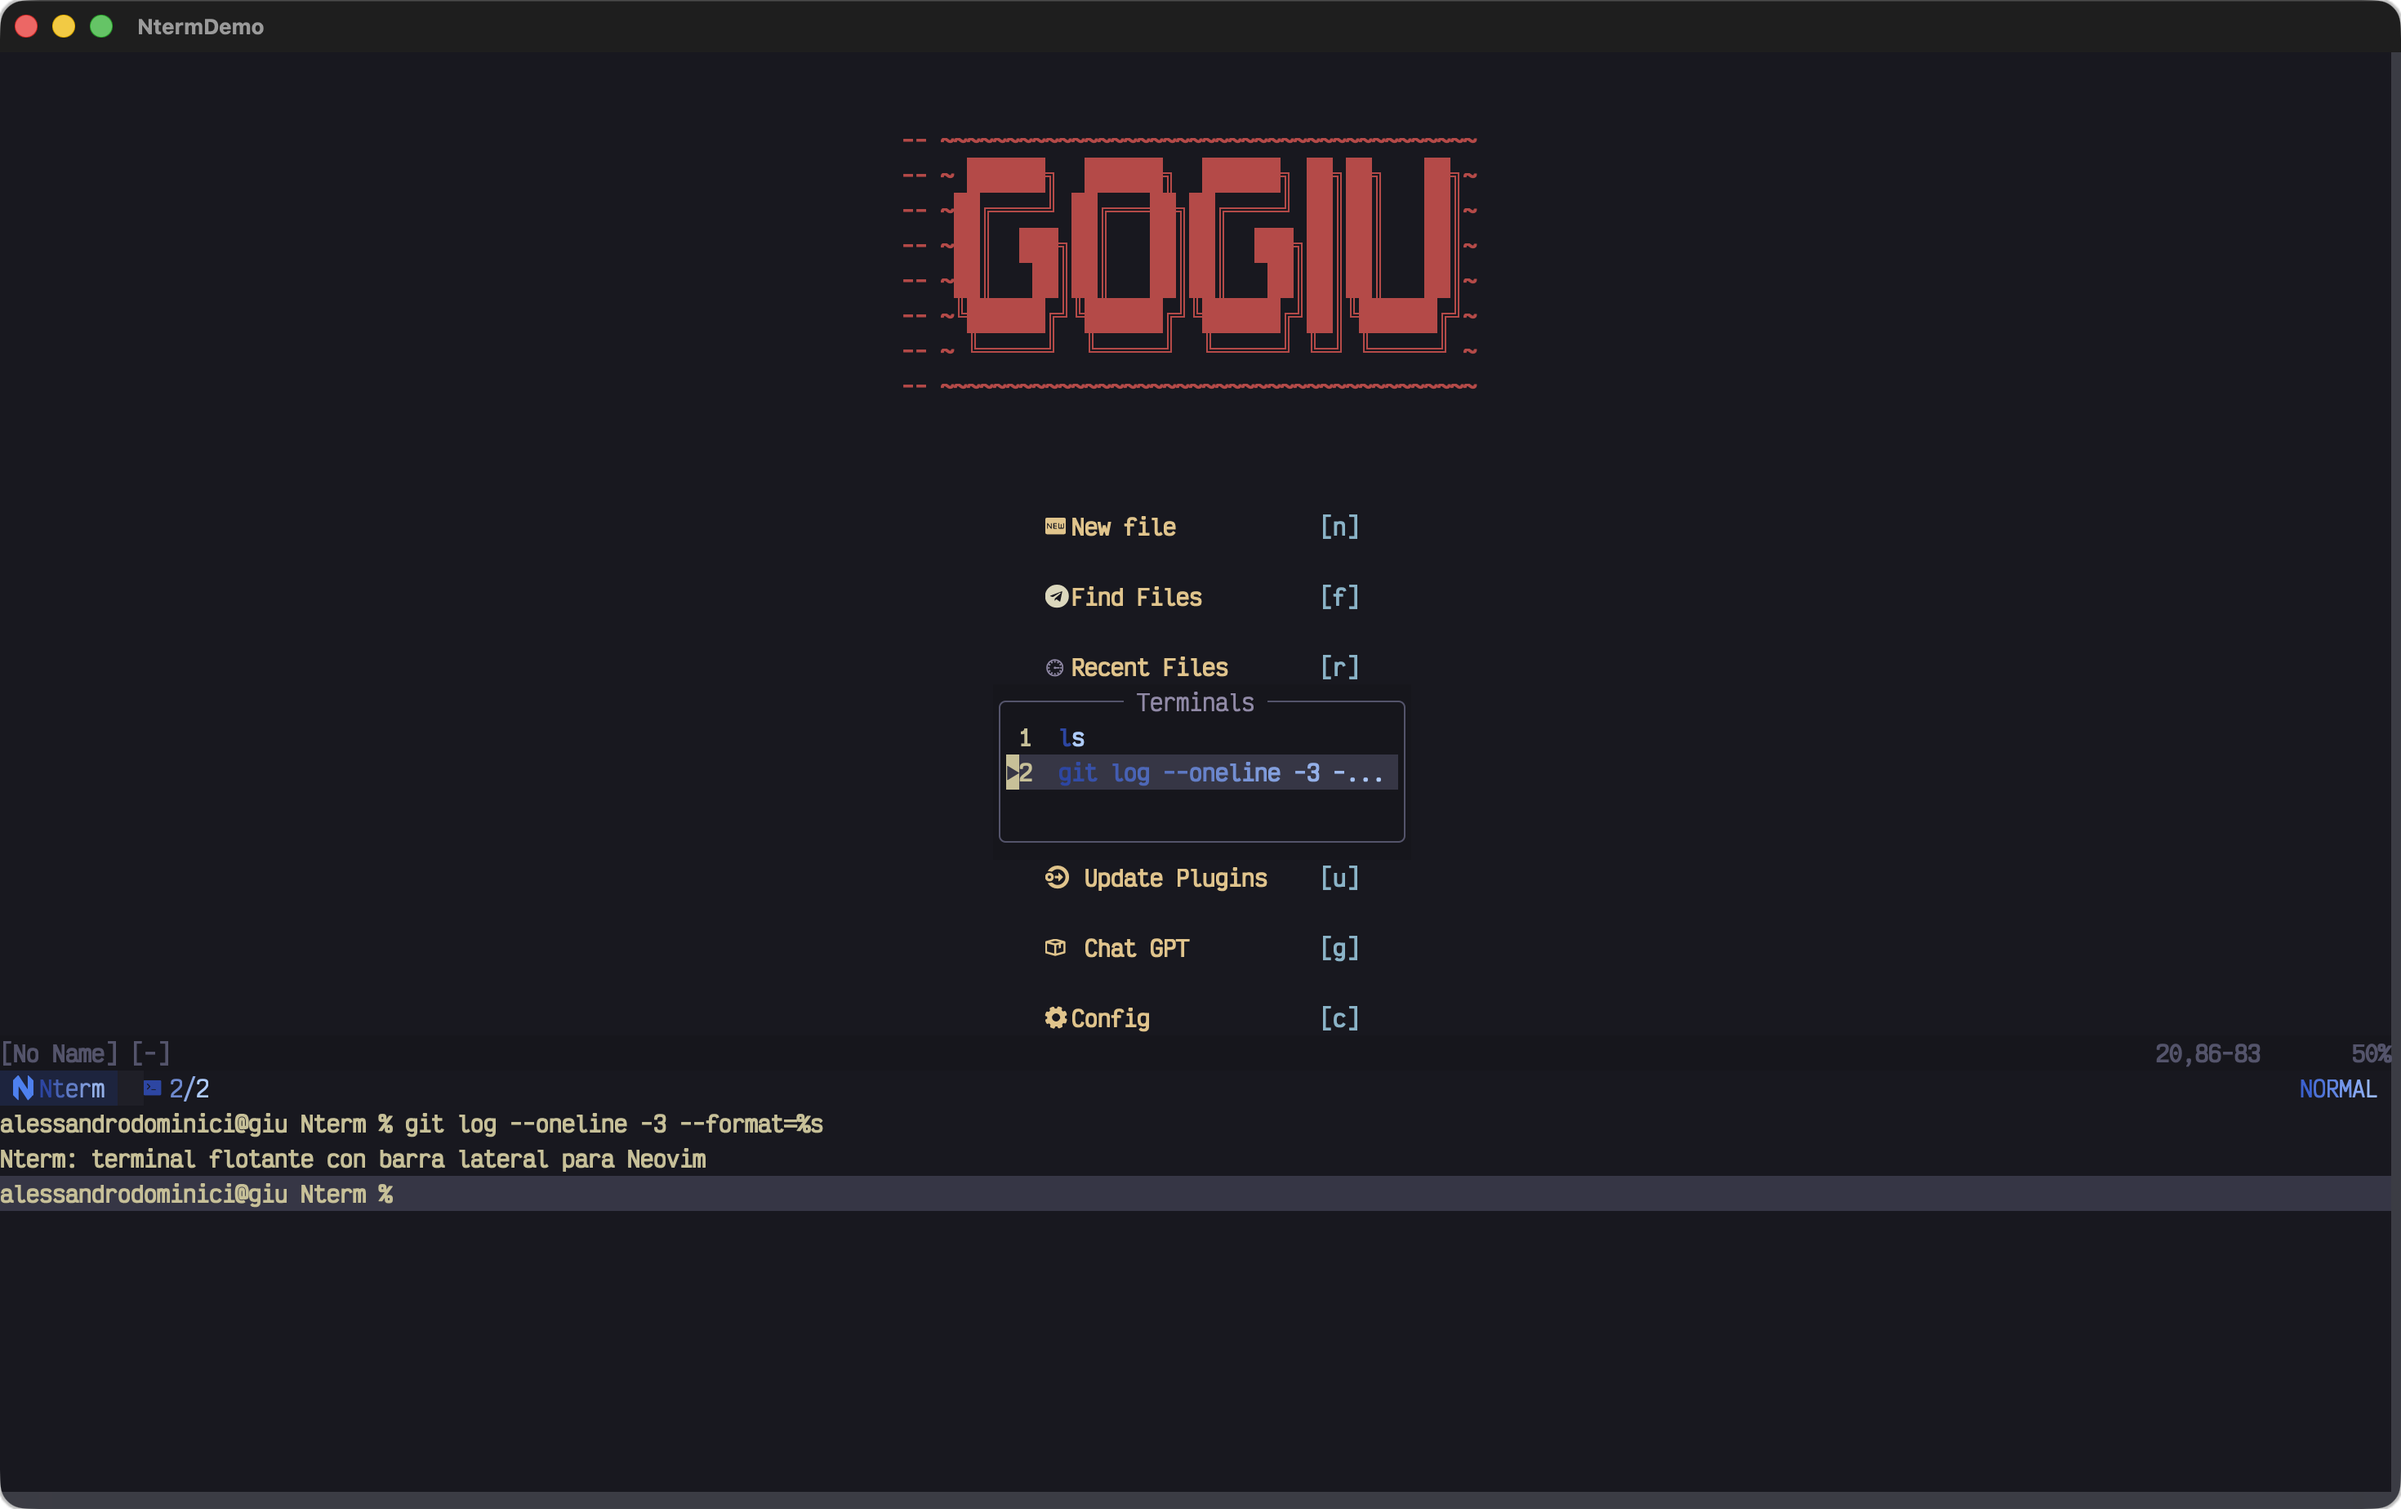
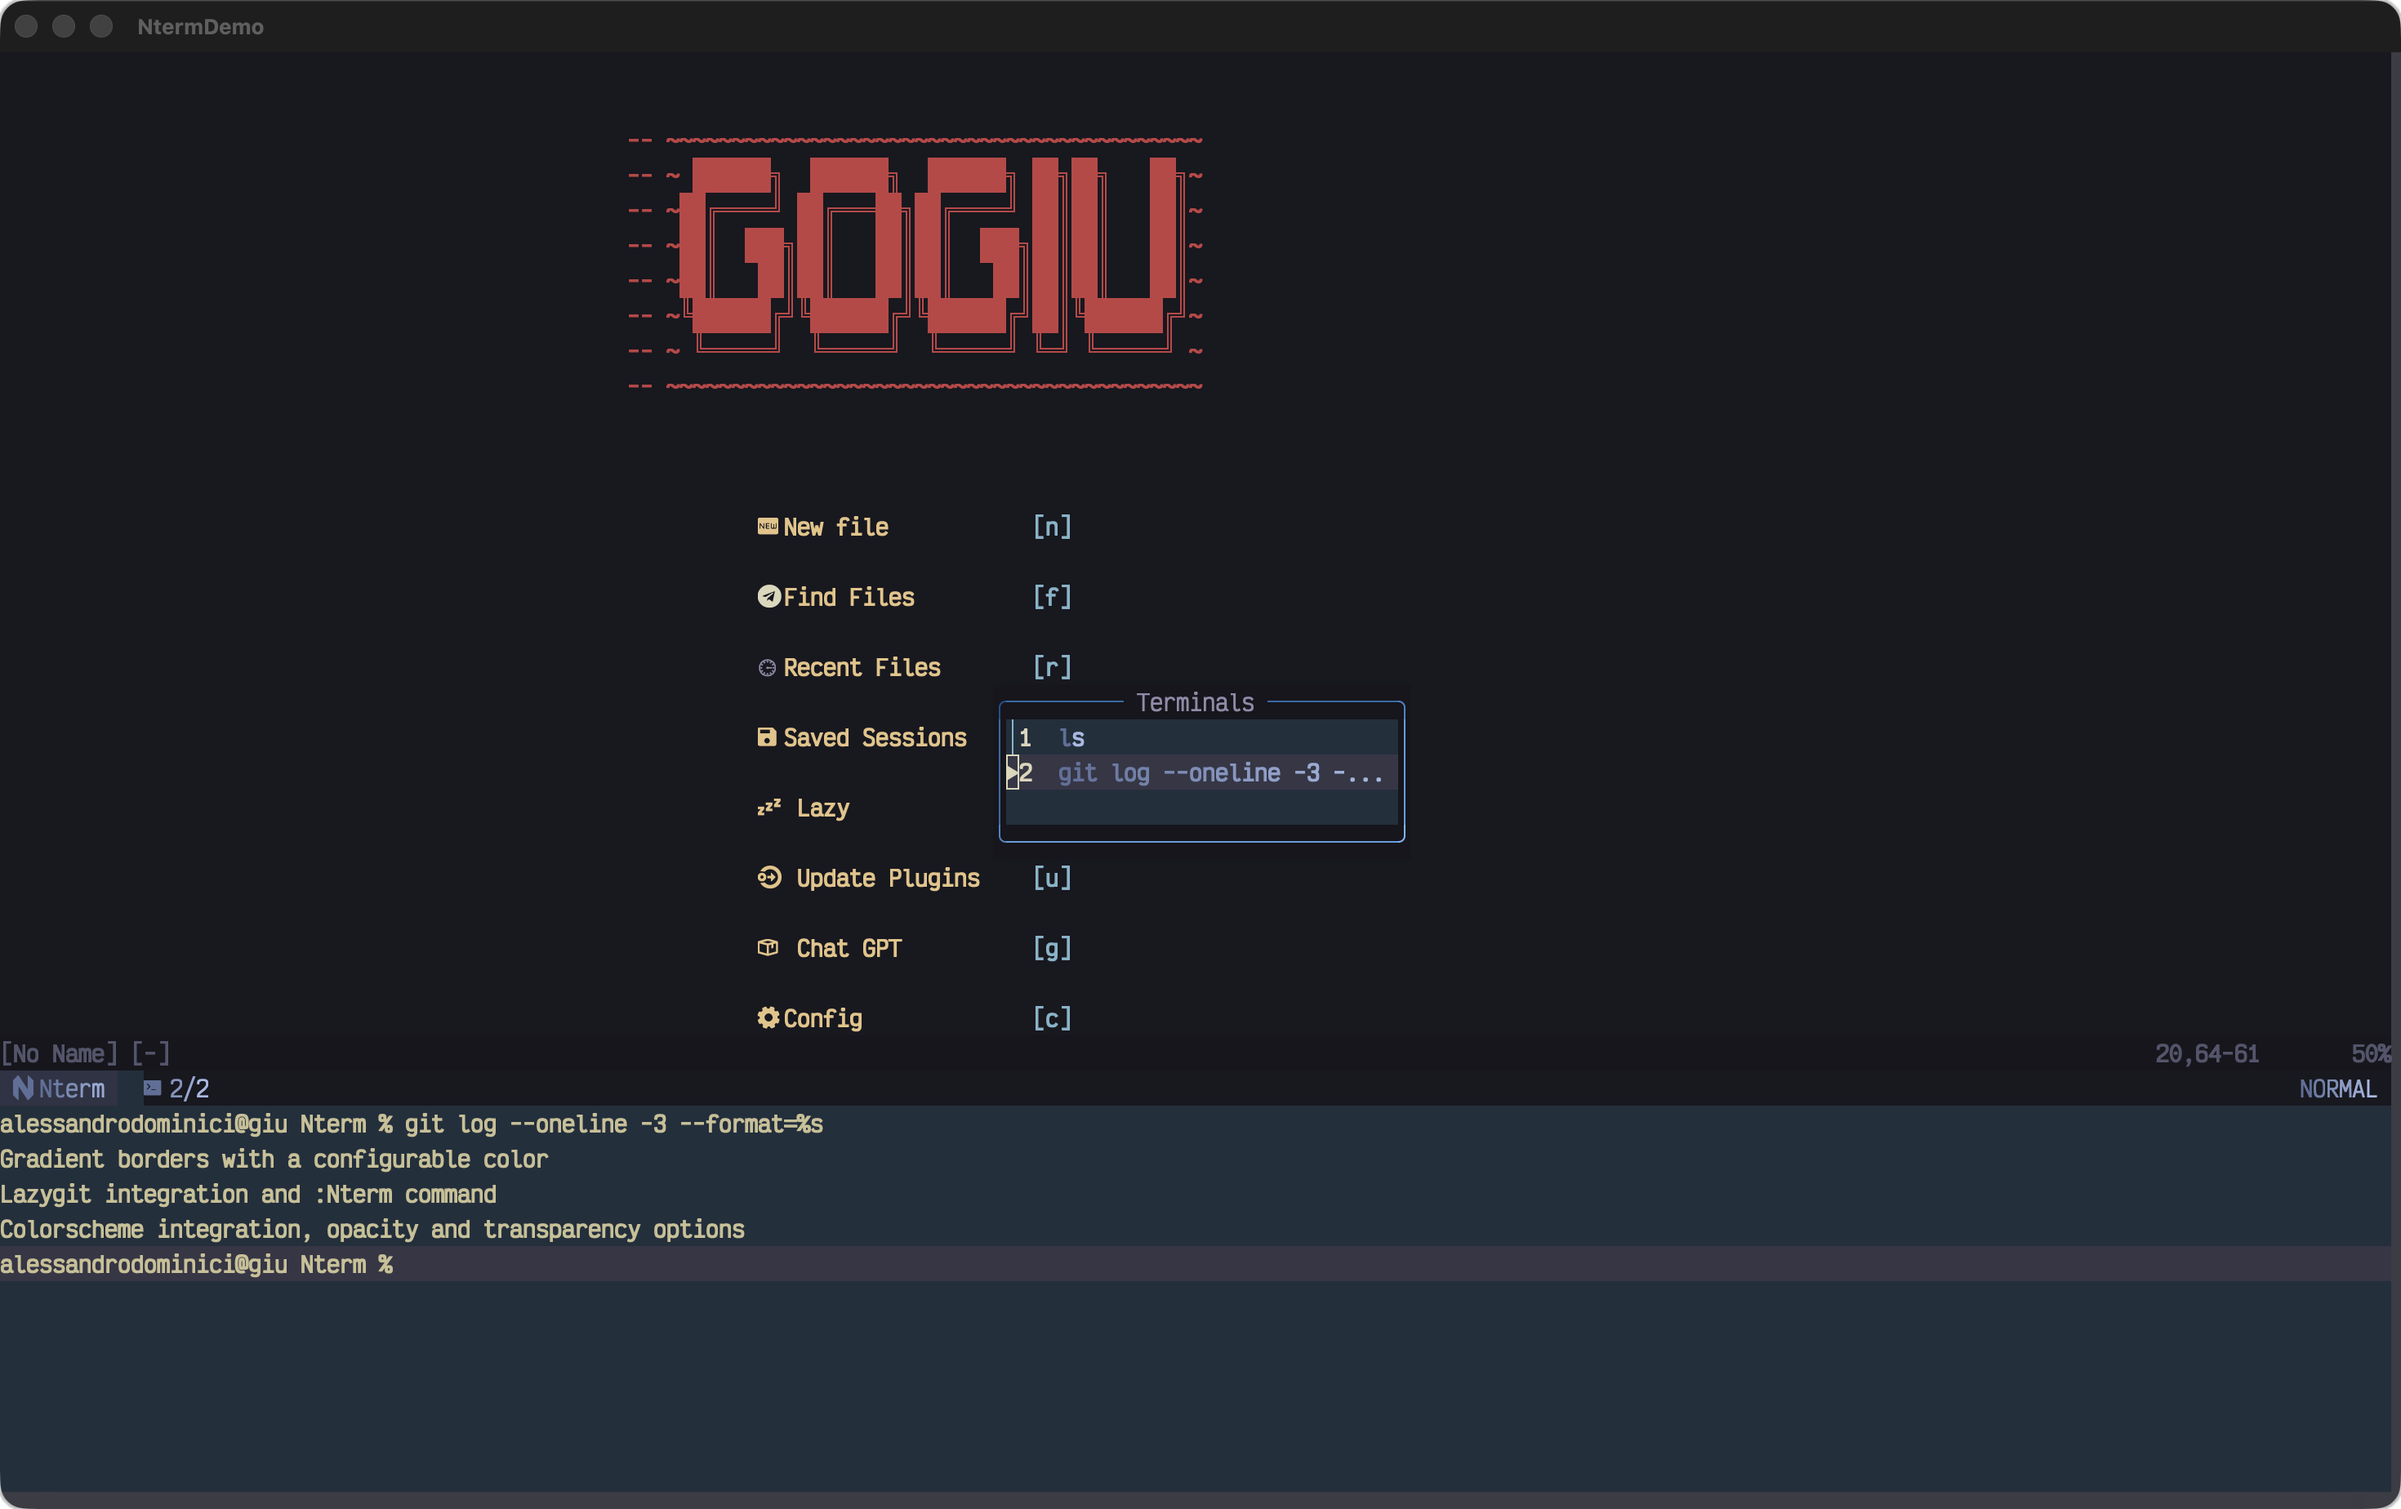
Refresh screenshots with gradient borders and add a demo GIF

diff --git a/README.md b/README.md
@@ -2,7 +2,7 @@
 
 Floating terminal for Neovim, with a sidebar to switch between several terminals.
 
-![Terminal](assets/terminal.png)
+![Nterm demo](assets/demo.gif)
 
 ## Features
 
@@ -15,6 +15,8 @@ Floating terminal for Neovim, with a sidebar to switch between several terminals
 - `Ctrl-q` popup with every keymap, and a full guide in `:help nterm`.
 
 ## Screenshots
+
+![Terminal](assets/terminal.png)
 
 | Sidebar | Keymaps (`Ctrl-q`) | Confirmation before closing |
 |---|---|---|
@@ -157,7 +159,7 @@ nvim --headless -u NONE --cmd 'set rtp+=.' -l tests/docked.lua
 nvim --headless -u NONE --cmd 'set rtp+=.' -l tests/theme.lua
 nvim --headless -u NONE --cmd 'set rtp+=.' -l tests/lazygit.lua
 
-# regenerate the screenshots in a new Alacritty window (macOS; the terminal
-# running it needs Screen Recording permission)
+# regenerate the screenshots and assets/demo.gif in a new Alacritty window
+# (macOS, needs ffmpeg; the terminal running it needs Screen Recording permission)
 assets/capture/run.sh
 ```
